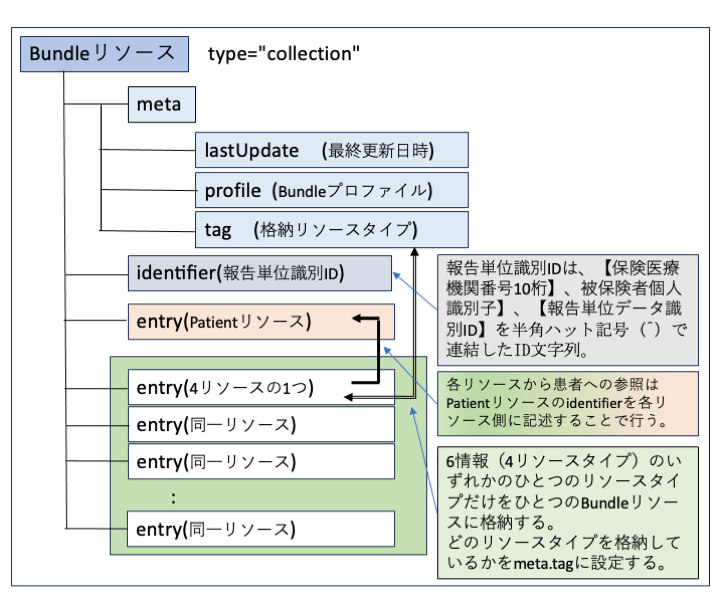
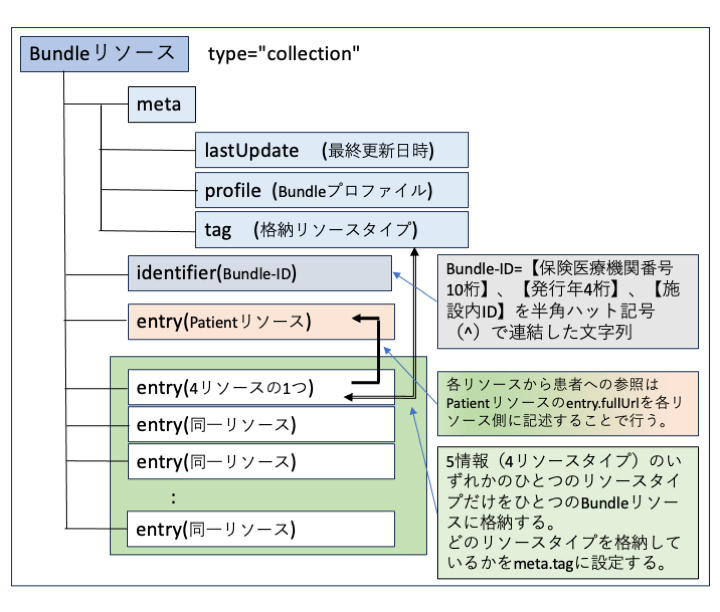
Bundle Fig

diff --git a/input/intro-notes/StructureDefinition-JP-AllergyIntolerance-eCS-notes.md b/input/intro-notes/StructureDefinition-JP-AllergyIntolerance-eCS-notes.md
@@ -6,14 +6,14 @@
 両者の区別はAllergyIntoleranceリソースデータのcategory要素に設定される値の違いにより以下の表に従い処理される。
 
 
-「薬剤アレルギー等」においてはcategory要素にmedicationを必ず設定することによる。利用側（CLINS）はこの条件が満たされた場合にのみ「「薬剤アレルギー等」」として扱い、それ以外の場合には「その他アレルギー等」として取り扱う。なお、category要素に対するbiologicの設定は当面使用しない。
+「薬剤アレルギー等」には、category要素にmedicationを必ず設定する。利用側（CLINS）は、この条件が満たされた場合にのみ「薬剤アレルギー等」として扱い、それ以外の場合には「その他アレルギー等」として取り扱う。なお、category要素に対するbiologicの設定は当面使用しない。
 
 <div>
 <table border="2"  style="border-collapse: collapse">
 <tr><th>識別</th><th>category要素</th><th>説明</th></tr>
 <tr><td>薬剤アレルギー等</td><td>medication</td><td>biologicは当面使用しない。</td></tr>
 </tr>
-<tr><td>その他アレルギー等</td><td>food, environment,または値なし（要素なし）</td><td>薬剤薬剤以外の原因物質に対する「その他アレルギー等」。<br>「薬剤アレルギー等」としては扱われない。</td></tr>
+<tr><td>その他アレルギー等</td><td>food, environment,または値なし（要素なし）</td><td>薬剤以外の原因物質に対する「その他アレルギー等」とみなされる。<br>「薬剤アレルギー等」としては扱われない。</td></tr>
 </table>
 </div>
 

diff --git a/input/pagecontent/core6spec.md b/input/pagecontent/core6spec.md
@@ -97,8 +97,10 @@ Bundle.identifier.value	:  以下に記載する\[Bundle-ID\]　(旧報告単位
 次の３つの文字列を半角ハット記号（^）で連結した文字列。
   - 保険医療機関番号10桁：<br>
   　（内訳：都道府県番号２桁、点数表コード（医療機関区分）１桁、医療機関番号７桁）
-  - Bundleリソースを作成した発行年（西暦）4桁<span style="color: red; ">　要確認</span>
-  - 施設内において発行年内にCLINSに新規に送信したBundleリソースを通して一意となる（重複がない）番号<span style="color: red; ">　要確認</span><br>
+  - 発行年：<br>
+  　　Bundleリソースを作成した発行年（西暦）4桁<span style="color: red; ">　要確認</span>
+  - 施設内ID：<br>
+  　　施設内において発行年内にCLINSに新規に送信したBundleリソースを通して一意となる（重複がない）番号<span style="color: red; ">　要確認</span><br>
   　半角英数字および半角ハイフン（U+002D）、36文字以内<span style="color: red; ">（固定か以内か調整中）</span>。
 
 ##### Bundleリソース・インスタンスの例（JSON形式）：
